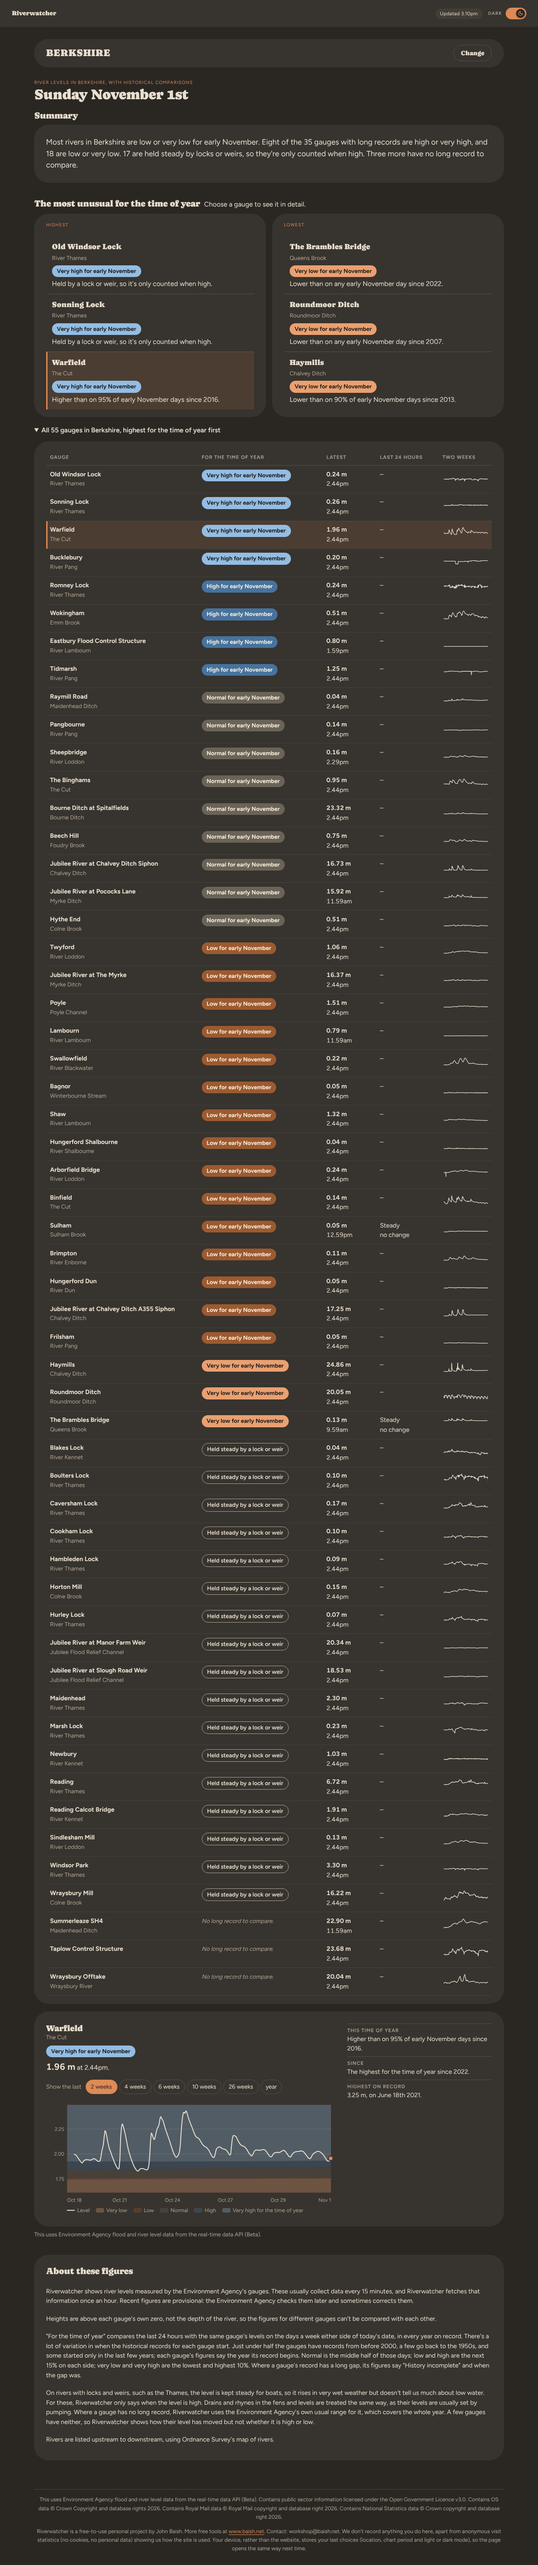
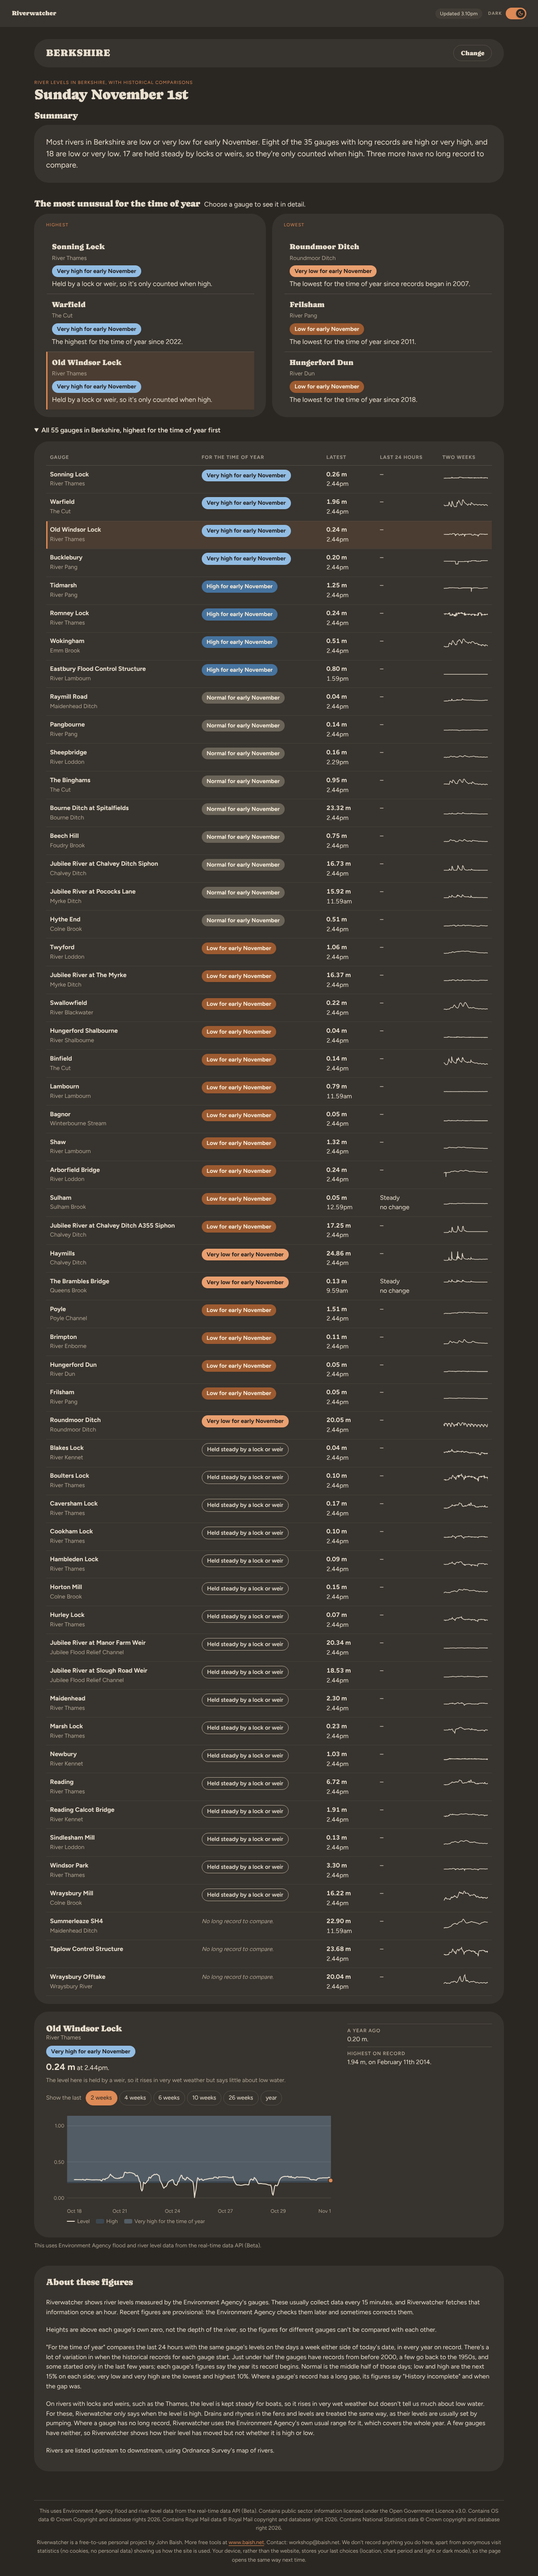
Area views: 'the most unusual' ranked by how long since it was last this high or low (John, option B)
Claude-Session: https://claude.ai/code/session_01BsvHLJEg3WdBkhXvhZCBRw

diff --git a/scripts/check-page.ts b/scripts/check-page.ts
@@ -10,7 +10,7 @@ import {
   changeText, chip, comparisons, figureLine, heldNote, joinsBetween, nearestGauges, readingTime, riverGroups, riverSentence, shortChange, summary, theRiver,
   type Ctx, type Item,
 } from '../src/lib/view.ts'
-import { areaFloods, areaGauges, areaSummary, byRank, ends, inProse, rankLine, rankOf } from '../src/lib/area.ts'
+import { areaFloods, areaGauges, areaSummary, byRank, ends, inProse, rankLine, rankOf, yearsUnusual } from '../src/lib/area.ts'
 import { deltas, historyFits, liveBand, ukDate, yearBefore } from './lib/pageData.ts'
 import type { History } from './lib/history.ts'
 
@@ -69,7 +69,7 @@ const c: Ctx = { made: '2026-10-31T10:04:00Z', date: '2026-10-31' }
 const base: PageGauge = {
   ref: 'X', name: 'Weston', river: 'River Test', lat: 51, long: -1, held: null, lake: false, toSeaKm: 50, joins: null, county: null, region: null, quiet: false,
   now: { v: 1210, age: 20, mean: 1200, ch: -50 }, j: { basis: 'history', word: 'normal', percent: 55.2 }, fromYear: 2002,
-  since: null, yearAgo: { v: 840, word: 'normal' }, record: { v: 5350, date: '2015-12-05' }, gaps: [], typical: null, span: [800, 2000],
+  since: null, heldSince: null, yearAgo: { v: 840, word: 'normal' }, record: { v: 5350, date: '2015-12-05' }, gaps: [], typical: null, span: [800, 2000],
 }
 const g = (o: Partial<PageGauge>): PageGauge => ({ ...base, ...o })
 eq('chip: normal', chip(base, c), { text: 'Normal for late October', kind: 'normal' })
@@ -165,16 +165,21 @@ eq('no gauges', summary('TR21', [], c), 'There are no river gauges within 10 mil
 const ag = (ref: string, o: Partial<PageGauge>) => g({ ref, name: ref, county: 'Berkshire', region: 'South East England', ...o })
 const hj = (word: 'very low' | 'low' | 'normal' | 'high' | 'very high', percent: number) => ({ j: { basis: 'history' as const, word, percent } })
 const area = [
-  ag('A', hj('very high', 97)), ag('B', hj('high', 80)), ag('C', hj('normal', 50)), ag('D', hj('normal', 60)), ag('E', hj('low', 20)),
-  ag('F', { held: 'name', j: { basis: 'held', word: null } }), ag('G', { held: 'thames', j: { basis: 'held', word: 'very high', percent: 99 } }),
+  ag('A', { ...hj('very high', 97), since: { way: 'highest', year: 2020 } }), ag('B', { ...hj('high', 80), since: { way: 'highest', year: 0 } }),
+  ag('C', hj('normal', 50)), ag('D', hj('normal', 60)), ag('E', { ...hj('low', 20), since: { way: 'lowest', year: 2010 } }),
+  ag('F', { held: 'name', j: { basis: 'held', word: null } }), ag('G', { held: 'thames', j: { basis: 'held', word: 'very high', percent: 99 }, heldSince: 2014 }),
   ag('H', { j: { basis: 'typical', word: 'within' } }), ag('I', { now: { v: 1, age: 600, mean: null, ch: null } }),
   ag('Q', { quiet: true }), ag('W', { county: 'Wiltshire', region: 'South West England' }), ag('Z', { county: null, region: null }),
 ]
 eq('area: a county leaves out quiet gauges and other counties', areaGauges(area, 'county', 'Berkshire').map((x) => x.ref), ['A', 'B', 'C', 'D', 'E', 'F', 'G', 'H', 'I'])
 eq('area: England leaves out the gauges over the border', areaGauges(area, 'england').map((x) => x.ref).includes('Z'), false)
 eq('area: held steady and silent gauges are not ranked', [rankOf(area[5]), rankOf(area[8])], [null, null])
-eq('area: highest first, a high held gauge among them', byRank(areaGauges(area, 'county', 'Berkshire')).map((x) => x.ref), ['G', 'A', 'B', 'D', 'C', 'E', 'H', 'F', 'I'])
-eq('area: the most unusual, held gauges only high', ends(areaGauges(area, 'county', 'Berkshire'), 3), { high: [area[6], area[0], area[1]], low: [area[4]] })
+eq('area: years since it was last this high (records began in 2002)', [yearsUnusual(area[1], c.date), yearsUnusual(area[0], c.date), yearsUnusual(area[6], c.date), yearsUnusual(area[2], c.date)], [24, 6, 12, null])
+eq('area: the longest since first, a high held gauge among them', byRank(areaGauges(area, 'county', 'Berkshire'), c.date).map((x) => x.ref), ['B', 'G', 'A', 'D', 'C', 'E', 'H', 'F', 'I'])
+eq('area: the most unusual, held gauges only high', ends(areaGauges(area, 'county', 'Berkshire'), 3, c.date), { high: [area[1], area[6], area[0]], low: [area[4]] })
+// The fault John spotted: 0% everywhere, settled by the alphabet. Now the longer record wins.
+const lows = [ag('Zoons', { ...hj('very low', 0), fromYear: 2022, since: { way: 'lowest', year: 0 } }), ag('Stourton', { ...hj('very low', 0), fromYear: 1967, since: { way: 'lowest', year: 0 } }), ag('Mid', { ...hj('very low', 3), since: { way: 'lowest', year: 2001 } })]
+eq('area: lowest since 1967 before lowest since 2001 before lowest since 2022', ends(lows, 3, c.date).low.map((x) => x.ref), ['Stourton', 'Mid', 'Zoons'])
 eq('area: the summary', areaSummary('Berkshire', areaGauges(area, 'county', 'Berkshire'), c),
   ['Rivers in Berkshire are mostly normal or high for late October.', 'Three of the six gauges with long records are high or very high, and one is low or very low.',
     "One is held steady by a lock or weir, so it's only counted when high.", 'One more has no long record to compare.', 'One has sent no reading for more than six hours.'])
@@ -193,7 +198,8 @@ eq('area: more low than high is not "normal or high"', areaSummary('Devon', [ag(
 eq('area: on the Isle of Wight', areaSummary('Isle of Wight', [ag('a', hj('low', 20))], c)[0], 'The one river gauge on the Isle of Wight with a long record is low for late October.')
 eq('area: thousands with a comma', areaSummary('England', Array.from({ length: 1001 }, (_, i) => ag(`n${i}`, hj('normal', 50))), c)[1], 'None of the 1,001 gauges with long records is high or low.')
 eq('area: "the" in a sentence', [inProse('Isle of Wight'), inProse('Berkshire')], ['the Isle of Wight', 'Berkshire'])
-eq('area: the rank line', rankLine(area[0], c), 'Higher than on 97% of late October days since 2002.')
+eq('area: the rank line', rankLine(area[0], c), 'The highest for the time of year since 2020.')
+eq('area: the rank line, since records began', rankLine(area[1], c), 'The highest for the time of year since records began in 2002.')
 eq('area: the rank line, held', rankLine(area[6], c), "Held by a lock or weir, so it's only counted when high.")
 const fl = (lat: number, long: number) => ({ id: 'f', area: 'X', severity: 'Flood alert', lat, long, raised: null, changed: null }) as unknown as Parameters<typeof areaFloods>[0][number]
 eq('area: a flood warning goes with its nearest gauge', areaFloods([fl(51, -1.01)], area, (x) => x.county === 'Berkshire').length, 1)

diff --git a/src/lib/area.ts b/src/lib/area.ts
@@ -28,32 +28,60 @@ export function rankOf(g: PageGauge): number | null {
   return null
 }
 
-/** Highest for the time of year first; then gauges with no ranking: those within or outside
- *  the EA's typical range (above, within, below), held steady, no long record, silent. */
-export function byRank(gauges: PageGauge[]): PageGauge[] {
+/** How long it has been since the gauge was last as high (or low) for the time of year, in
+ *  years: from its "since" year, or its whole record when it's the highest (lowest) since
+ *  records began. This is what "the most unusual" means in an area (John, November 1st,
+ *  option B): a gauge at its lowest since 1967 comes before one at its lowest since 2022,
+ *  so short records don't crowd out long ones. Null for a gauge that isn't high or low. */
+export function yearsUnusual(g: PageGauge, date: string): number | null {
+  if (isSilent(g) || !g.fromYear) return null
+  const thisYear = Number(date.slice(0, 4))
+  const year = g.since ? g.since.year : g.heldSince
+  if (year === null) return null
+  return thisYear - (year === 0 ? g.fromYear : year)
+}
+
+const side = (g: PageGauge): 'high' | 'low' | null => {
+  const w = g.j.basis === 'history' || g.j.basis === 'held' ? g.j.word : null
+  return w === 'high' || w === 'very high' ? 'high' : w === 'low' || w === 'very low' ? (g.j.basis === 'history' ? 'low' : null) : null
+}
+
+/** Highest for the time of year first: the high gauges, most unusual first (`yearsUnusual`,
+ *  then the percentage); then the rest by percentage; then the low gauges, least unusual
+ *  first, so the most unusual low gauge is last. After them, gauges with no ranking: those
+ *  outside or within the EA's typical range (above, within, below), held steady, no long
+ *  record, silent. */
+export function byRank(gauges: PageGauge[], date: string): PageGauge[] {
   const later = (g: PageGauge) => {
     if (isSilent(g)) return 5
     if (g.j.basis === 'typical') return g.j.word === 'above' ? 0 : g.j.word === 'within' ? 1 : 2
     if (heldSteady(g)) return 3
     return 4
   }
+  const band = (g: PageGauge) => (side(g) === 'high' ? 0 : side(g) === 'low' ? 2 : 1)
+  const years = (g: PageGauge) => yearsUnusual(g, date) ?? 0
   return [...gauges].sort((a, b) => {
     const ra = rankOf(a), rb = rankOf(b)
-    if (ra !== null && rb !== null) return rb - ra || a.name.localeCompare(b.name)
+    if (ra !== null && rb !== null) {
+      const ba = band(a), bb = band(b)
+      if (ba !== bb) return ba - bb
+      if (ba === 0 && years(a) !== years(b)) return years(b) - years(a)
+      if (ba === 2 && years(a) !== years(b)) return years(a) - years(b)
+      return rb - ra || a.name.localeCompare(b.name)
+    }
     if (ra !== null) return -1
     if (rb !== null) return 1
     return later(a) - later(b) || a.name.localeCompare(b.name)
   })
 }
 
-/** The most unusual high and low gauges: the `n` highest for the time of year (held gauges
- *  included when high) and the `n` lowest (free-flowing only), each only when it really is
- *  high or low. */
-export function ends(gauges: PageGauge[], n: number): { high: PageGauge[]; low: PageGauge[] } {
-  const ranked = byRank(gauges).filter((g) => rankOf(g) !== null)
-  const word = (g: PageGauge) => (g.j.basis === 'history' || g.j.basis === 'held' ? g.j.word : null)
-  const high = ranked.filter((g) => word(g) === 'high' || word(g) === 'very high').slice(0, n)
-  const low = ranked.filter((g) => g.j.basis === 'history' && (g.j.word === 'low' || g.j.word === 'very low')).reverse().slice(0, n)
+/** The most unusual high and low gauges: the `n` high gauges (held gauges included) and the
+ *  `n` low gauges (free-flowing only) that are the longest since they were last this high or
+ *  low (`yearsUnusual`). */
+export function ends(gauges: PageGauge[], n: number, date: string): { high: PageGauge[]; low: PageGauge[] } {
+  const ranked = byRank(gauges, date).filter((g) => rankOf(g) !== null)
+  const high = ranked.filter((g) => side(g) === 'high').slice(0, n)
+  const low = ranked.filter((g) => side(g) === 'low').reverse().slice(0, n)
   return { high, low }
 }
 
@@ -140,17 +168,14 @@ export function areaSummary(name: string, gauges: PageGauge[], c: Ctx): string[]
   return out
 }
 
-/** "Higher than on 98% of late October days since 1995." for a ranked gauge (as the postcode
- *  view's comparison), and "High for late October, though held by a lock or weir." for a
- *  held one. */
+/** The line under a gauge in "the most unusual": what it's ranked by, "The lowest for the time
+ *  of year since records began in 1967." or "The highest for the time of year since 2014.";
+ *  for a held gauge, why only its highs count (its "since" year isn't shown, SPEC §4.6). */
 export function rankLine(g: PageGauge, c: Ctx): string | null {
-  const toy = timeOfYear(c.date)
+  void c
   if (g.j.basis === 'held') return g.j.word ? `Held by ${g.held === 'drain' ? 'pumping' : 'a lock or weir'}, so it's only counted when high.` : null
-  if (g.j.basis !== 'history' || !g.fromYear) return null
-  const p = g.j.percent
-  if (p >= 99.5) return `Higher than on any ${toy} day since ${g.fromYear}.`
-  if (p <= 0.5) return `Lower than on any ${toy} day since ${g.fromYear}.`
-  return p >= 50 ? `Higher than on ${Math.round(p)}% of ${toy} days since ${g.fromYear}.` : `Lower than on ${Math.round(100 - p)}% of ${toy} days since ${g.fromYear}.`
+  if (!g.since || isSilent(g)) return null
+  return g.since.year ? `The ${g.since.way} for the time of year since ${g.since.year}.` : `The ${g.since.way} for the time of year since records began in ${g.fromYear}.`
 }
 
 /** The flood warnings in an area: those whose flood area's middle is nearest to a gauge in it

diff --git a/scripts/lib/pageData.ts b/scripts/lib/pageData.ts
@@ -65,6 +65,8 @@ export function pageGauge(g: GaugeLine, line: LatestLine | null, h: History | nu
   const since = h && level !== null && !held && (isHigh(word) || isLow(word))
     ? (() => { const way = isHigh(word) ? 'highest' as const : 'lowest' as const; return { way, year: sinceYear(h, date, metresOf(level), way) ?? 0 } })()
     : null
+  // A held gauge that's high: the same "since" year, for ranking in the area views only.
+  const heldSince = h && level !== null && held && j.basis === 'held' && j.word ? sinceYear(h, date, metresOf(level), 'highest') ?? 0 : null
   let yearAgo: PageGauge['yearAgo'] = null
   if (yearAgoLevel !== null) {
     const then = yearBefore(date)
@@ -81,7 +83,7 @@ export function pageGauge(g: GaugeLine, line: LatestLine | null, h: History | nu
     ref: g.ref, name: g.name, river: g.river, lat: g.lat, long: g.long, held: g.held, lake: g.lake,
     toSeaKm: g.toSeaKm, joins: g.joins, county: g.county, region: g.region ?? null, quiet,
     now: line ? { v: line[0], age: line[1], mean: line[2], ch: line[3] } : null,
-    j, fromYear: h?.fromYear ?? null, since, yearAgo,
+    j, fromYear: h?.fromYear ?? null, since, heldSince, yearAgo,
     record: h ? { v: h.record.high.value, date: h.record.high.date } : null,
     gaps: h?.gaps ?? [],
     typical: g.typical ? [Math.round(g.typical[0] * 1000), Math.round(g.typical[1] * 1000)] : null,

diff --git a/src/components/AreaView.tsx b/src/components/AreaView.tsx
@@ -112,8 +112,8 @@ function Area({ kind, name, os }: { kind: AreaKind; name: string; os?: string })
           const floods = areaFloods(meta.floods, all, inArea)
           const wide = kind !== 'county'
           const shownFloods = wide ? floods.slice(0, FLOODS_SHOWN) : floods
-          const top = ends(gauges, TOP)
-          const ranked = byRank(gauges)
+          const top = ends(gauges, TOP, meta.date)
+          const ranked = byRank(gauges, meta.date)
           const rankable = ranked.filter((g) => rankOf(g) !== null)
           const highest = rankable.slice(0, 10)
           const lowest = rankable.filter((g) => g.j.basis === 'history').reverse().slice(0, 10)

diff --git a/src/lib/pageTypes.ts b/src/lib/pageTypes.ts
@@ -51,6 +51,9 @@ export type PageGauge = {
   /** "The highest (lowest) for the time of year since [year]", only when high or low and
    *  not held: the year, or 0 for "since records began". */
   since: { way: 'highest' | 'lowest'; year: number } | null
+  /** The same year for a held gauge that's high, worked out only so the area views can rank
+   *  it (John, November 1st: never shown at a held gauge). Null otherwise. */
+  heldSince: number | null
   /** The usual level on the same date a year ago, and its word (null where not said). */
   yearAgo: { v: number; word: Word | null } | null
   record: { v: number; date: string } | null

diff --git a/CLAUDE.md b/CLAUDE.md
@@ -88,6 +88,21 @@ Scope (decided by John):
 
 ## Log
 
+### 2026-11-01 — "the most unusual" ranked by how long since (branch `stage-4-areas`, not merged)
+
+**John** asked how the larger areas chose "the most unusual", and suggested counting the longest time
+periods. **Found:** ranking by the percentage alone tied 173 of England's 1,751 ranked gauges at 0% or
+100%, settled alphabetically (England's "Lowest" was Zoons Court, Wightwick, Wickham…), and short records
+reach the extremes far more often (37% of gauges with less than five years, 5% of those with 40 or more).
+**John chose B, and yes for held gauges:** `yearsUnusual` in `src/lib/area.ts` (years since it was last this
+high or low; the whole record when "since records began"), used by `byRank` and `ends`; the percentage only
+settles ties. `heldSince` in `PageGauge` (`pageData.ts`): the same year for a held gauge that's high, for
+ranking only, never shown. The line under each gauge now says what it's ranked by ("The lowest for the time
+of year since records began in 1967."). SPEC §8.3. Now: England's lowest Stourton (1967), Colliers Land
+Bridge (1969), Auckley (1972); highest Staines Ash (1996), Parsons Street (2004), Tidworth Manor Bridge
+(2010). **Verified:** checks 114 + 110 (new: the years, John's tie case), lint; the same 28-view browser sweep
+and the click-through: no errors, no sideways scroll. Private page republished.
+
 ### 2026-11-01 — stage 4: the area views and the full chooser, for John to look at (branch `stage-4-areas`, not merged)
 
 **John:** start stage 4 (`design/prompt-stage-4-2026-10-31.md`); show before wiring in.

diff --git a/SPEC.md b/SPEC.md
@@ -242,6 +242,14 @@ its word; each arm checked with the dataviz validator in light and dark.
    unusual high and low gauges, Hindcaster-style (held gauges only on the high side), then every
    gauge folded away, highest for the time of year first. For a region or England, the ten highest
    and ten lowest instead of every gauge (Agreed, as Hindcaster).
+3. **"The most unusual"** (Agreed, John, November 1st, option B): ranked by how long it has been
+   since the gauge was last as high (or low) for the time of year: its "since" year, or its whole
+   record when it's the highest (lowest) since records began. The percentage only settles ties.
+   So a gauge at its lowest since 1967 comes before one at its lowest since 2022, and short records
+   don't crowd out long ones (ranking by the percentage alone tied 173 gauges at 0% or 100% and
+   settled them alphabetically). Each gauge's line says what it's ranked by: "The lowest for the
+   time of year since records began in 1967." Held gauges that are high are ranked by the same
+   year, worked out for ranking only and never shown (John: yes).
 
 ## 9. "About these figures" (Proposed: Claude's draft with John's changes of October 30th)
 
